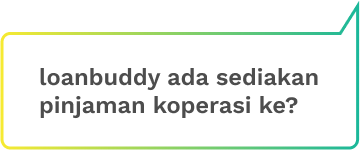
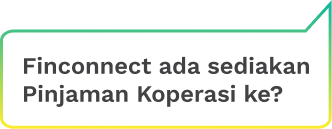
change chatbox on pinjaman koperasi

Changed region(s): [[0.0, 0.0, 1.0, 1.0], [0.0602, 0.6202, 0.8735, 0.8372], [0.0602, 0.4341, 0.9337, 0.6202]]

diff --git a/pinjaman-koperasi-page.html b/pinjaman-koperasi-page.html
@@ -323,7 +323,7 @@
                     Yang penting, seperti teman yang setia, loanbuddy semestinya buddy anda dalam kewangan!
                   </p> -->
                   <div class="layer" data-depth="0.2">
-                    <img class="faq-floating-1" src="assets/images/banner/chatbox1-pinjaman-koperasi.webp" >
+                    <img class="faq-floating-1" src="assets/images/banner/chatbox1-pinjaman-koperasi.png" >
                   </div>
                   <div class="layer" data-depth="0.3">
                     <img class="faq-floating-2" src="assets/images/banner/chatbox1-pinjaman-koperasi-2.webp" >
